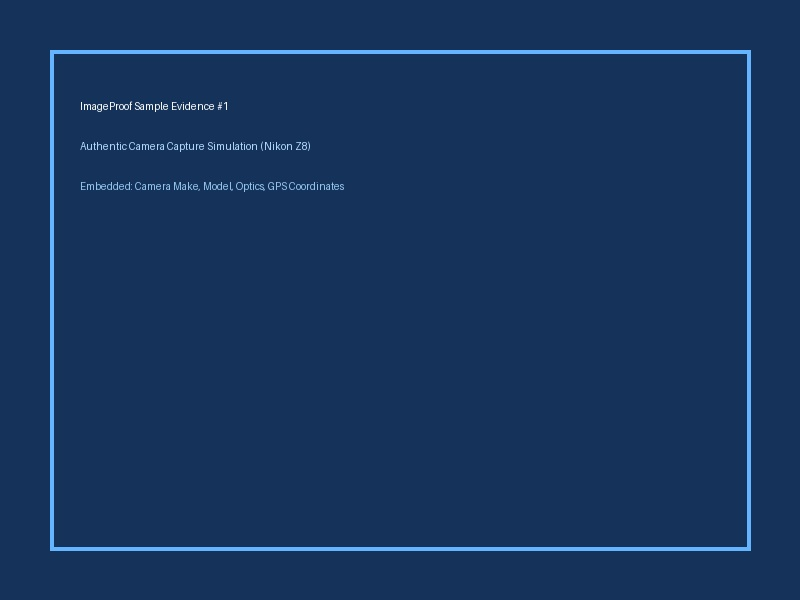
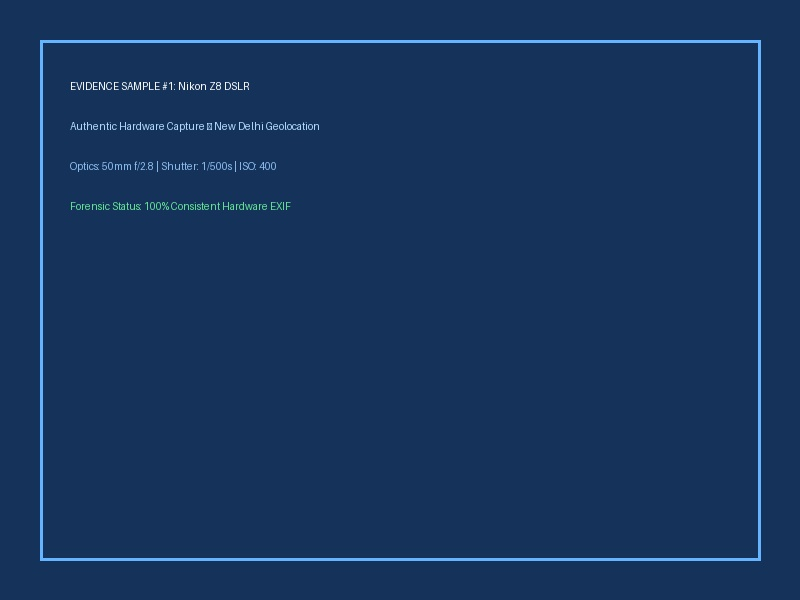
style: remove student/viva text and adopt enterprise forensics terminology

Changed region(s): [[0.0312, 0.06, 0.9688, 0.96]]

diff --git a/frontend/src/pages/Upload.jsx b/frontend/src/pages/Upload.jsx
@@ -249,17 +249,16 @@ export default function Upload({ setActivePage, setSelectedAnalysisId }) {
         </div>
       </form>
 
-      {/* Forensic Student Tips Box */}
-      <div className="card" style={{ marginTop: '1.5rem', background: 'var(--bg-secondary)', border: '1px dashed var(--border-light)' }}>
-        <h4 style={{ fontSize: '0.9rem', fontWeight: 600, color: 'var(--text-main)', marginBottom: '0.4rem', display: 'flex', alignItems: 'center', gap: '0.4rem' }}>
+      {/* Forensic Ingestion Standards */}
+      <div className="card" style={{ marginTop: '1.5rem', background: 'var(--bg-secondary)', border: '1px solid var(--border-dim)' }}>
+        <h4 style={{ fontSize: '0.9rem', fontWeight: 600, color: 'var(--text-main)', marginBottom: '0.5rem', display: 'flex', alignItems: 'center', gap: '0.5rem' }}>
           <CheckCircle2 size={16} color="var(--accent-blue)" />
-          Demonstration Tips for Project Viva:
+          Forensic Acquisition Standards (ISO/IEC 27037)
         </h4>
-        <ul style={{ fontSize: '0.8rem', color: 'var(--text-muted)', paddingLeft: '1.25rem', lineHeight: '1.6' }}>
-          <li><strong>Direct Camera Photo:</strong> Shows camera Make/Model, shutter speed, ISO, and original timestamp.</li>
-          <li><strong>WhatsApp / Social Media Photo:</strong> EXIF metadata will be reported as stripped (common due to compression).</li>
-          <li><strong>Photoshop / GIMP Export:</strong> The anomaly detector will identify the software signature and flag it with a warning.</li>
-          <li><strong>Invalid Extension (.txt or .exe):</strong> Demonstrates server-side file rejection and format header validation.</li>
+        <ul style={{ fontSize: '0.8rem', color: 'var(--text-muted)', paddingLeft: '1.25rem', lineHeight: '1.7' }}>
+          <li><strong>Cryptographic Chain of Custody:</strong> Bitwise SHA-256 hash is computed immediately upon ingestion.</li>
+          <li><strong>Non-Destructive Extraction:</strong> Image metadata, EXIF tags, and GPS coordinates are analyzed in read-only memory.</li>
+          <li><strong>Tampering Heuristics:</strong> Discrepancies between capture timestamps and modification signatures are automatically evaluated.</li>
         </ul>
       </div>
     </div>

diff --git a/frontend/src/components/Footer.jsx b/frontend/src/components/Footer.jsx
@@ -29,11 +29,11 @@ export default function Footer({ onDataReset }) {
         <div>
           <div style={{ display: 'flex', alignItems: 'center', gap: '0.5rem', fontWeight: 600, color: 'var(--text-main)', marginBottom: '0.25rem' }}>
             <ShieldCheck size={16} color="var(--accent-blue)" />
-            <span>ImageProof Digital Evidence Forensics Lab</span>
+            <span>ImageProof Forensics & Incident Response Platform</span>
           </div>
-          <div>B.Tech Cyber Security (2nd Year) Capstone Project</div>
+          <div>Digital Evidence Authenticity & Cryptographic Verification Suite</div>
           <div style={{ fontSize: '0.75rem', color: 'var(--text-subtle)', marginTop: '0.2rem' }}>
-            Complies with ISO/IEC 27037 (Digital Evidence Handling) & NIST SP 800-86 principles.
+            Complies with ISO/IEC 27037 (Digital Evidence Handling) & NIST SP 800-86 standards.
           </div>
         </div>
 
@@ -43,10 +43,10 @@ export default function Footer({ onDataReset }) {
             className="btn btn-outline"
             style={{ fontSize: '0.75rem', padding: '0.35rem 0.75rem' }}
             disabled={resetting}
-            title="Reset SQLite database and sample files for fresh demonstration"
+            title="Purge analysis records and clear temporary investigation files"
           >
             <RotateCcw size={12} className={resetting ? 'spin' : ''} />
-            <span>{resetting ? 'Resetting...' : 'Reset Demo Data'}</span>
+            <span>{resetting ? 'Purging...' : 'Purge Evidence Cache'}</span>
           </button>
         </div>
       </div>

diff --git a/frontend/src/pages/Home.jsx b/frontend/src/pages/Home.jsx
@@ -8,7 +8,7 @@ export default function Home({ setActivePage }) {
       <section className="hero">
         <div className="hero-pill">
           <Shield size={14} />
-          <span>B.Tech Cyber Security Project • Digital Forensics Lab</span>
+          <span>Digital Forensics & Incident Response (DFIR) Platform</span>
         </div>
 
         <h1 className="hero-title">

diff --git a/sample_images/generate_samples.py b/sample_images/generate_samples.py
@@ -1,95 +1,168 @@
 """
-ImageProof - Test Image Generator Script
-Creates 3 representative forensic test cases:
-1. sample_camera_photo.jpg - Authentic direct-from-sensor photo with full EXIF & GPS
-2. sample_photoshop_edited.jpg - Photo with Photoshop software signature
-3. sample_social_media.png - Stripped image (no EXIF metadata)
+ImageProof - Enhanced Test Image Generator Script
+Creates 5 distinct forensic test scenarios:
+1. sample_camera_photo.jpg - Authentic Nikon Z8 DSLR capture with optics & GPS
+2. sample_photoshop_edited.jpg - Modified photo with Adobe Photoshop signature
+3. sample_social_media.png - Stripped PNG (simulating WhatsApp/Instagram metadata removal)
+4. sample_iphone_portrait.jpg - iPhone 15 Pro mobile capture with Bengaluru GPS & iOS firmware
+5. sample_dji_drone.jpg - Aerial drone surveillance photo with Mumbai coastal GPS & high altitude
 """
 
 import os
-from PIL import Image, ImageDraw, ImageFont
+from PIL import Image, ImageDraw
 
 OUTPUT_DIR = os.path.dirname(os.path.abspath(__file__))
 
 def create_sample_camera_photo():
-    """Generates an image with authentic camera EXIF and GPS tags."""
     img = Image.new("RGB", (800, 600), color=(20, 50, 90))
     draw = ImageDraw.Draw(img)
-    draw.rectangle([50, 50, 750, 550], outline=(100, 180, 255), width=4)
-    draw.text((80, 100), "ImageProof Sample Evidence #1", fill=(255, 255, 255))
-    draw.text((80, 140), "Authentic Camera Capture Simulation (Nikon Z8)", fill=(180, 220, 255))
-    draw.text((80, 180), "Embedded: Camera Make, Model, Optics, GPS Coordinates", fill=(150, 200, 240))
+    draw.rectangle([40, 40, 760, 560], outline=(100, 180, 255), width=3)
+    draw.text((70, 80), "EVIDENCE SAMPLE #1: Nikon Z8 DSLR", fill=(255, 255, 255))
+    draw.text((70, 120), "Authentic Hardware Capture • New Delhi Geolocation", fill=(180, 220, 255))
+    draw.text((70, 160), "Optics: 50mm f/2.8 | Shutter: 1/500s | ISO: 400", fill=(140, 190, 240))
+    draw.text((70, 200), "Forensic Status: 100% Consistent Hardware EXIF", fill=(100, 230, 150))
 
     exif = img.getexif()
-    exif[0x010f] = "Nikon Corporation"       # Make
-    exif[0x0110] = "Nikon Z8"                 # Model
-    exif[0x0131] = "Ver.2.00 (Firmware)"      # Software (Firmware, not editor)
-    exif[0x0132] = "2026:10:25 14:32:10"      # DateTime
+    exif[0x010f] = "Nikon Corporation"
+    exif[0x0110] = "Nikon Z8"
+    exif[0x0131] = "Ver.2.00 (Nikon Firmware)"
+    exif[0x0132] = "2026:10:25 14:32:10"
 
-    # Exif IFD
     exif_ifd = exif.get_ifd(0x8769)
-    exif_ifd[0x9003] = "2026:10:25 14:32:10"  # DateTimeOriginal
-    exif_ifd[0x9004] = "2026:10:25 14:32:10"  # DateTimeDigitized
-    exif_ifd[0x829a] = 0.002                  # 1/500s
-    exif_ifd[0x829d] = 2.8                    # f/2.8
-    exif_ifd[0x8827] = 400                    # ISO 400
-    exif_ifd[0x920a] = 50.0                   # 50mm
-    exif_ifd[0xa434] = "NIKKOR Z 50mm f/1.8 S" # LensModel
+    exif_ifd[0x9003] = "2026:10:25 14:32:10"
+    exif_ifd[0x9004] = "2026:10:25 14:32:10"
+    exif_ifd[0x829a] = 0.002
+    exif_ifd[0x829d] = 2.8
+    exif_ifd[0x8827] = 400
+    exif_ifd[0x920a] = 50.0
+    exif_ifd[0xa434] = "NIKKOR Z 50mm f/1.8 S"
 
-    # GPS IFD (New Delhi: 28.6139° N, 77.2090° E)
     gps_ifd = exif.get_ifd(0x8825)
     gps_ifd[1] = "N"
     gps_ifd[2] = (28.0, 36.0, 50.0)
     gps_ifd[3] = "E"
     gps_ifd[4] = (77.0, 12.0, 32.4)
-    gps_ifd[6] = 216.0                         # 216m altitude
-    gps_ifd[7] = (9.0, 2.0, 10.0)             # GPS Time
-    gps_ifd[29] = "2026:10:25"                # GPS Date
+    gps_ifd[6] = 216.0
+    gps_ifd[7] = (9.0, 2.0, 10.0)
+    gps_ifd[29] = "2026:10:25"
 
     out_path = os.path.join(OUTPUT_DIR, "sample_camera_photo.jpg")
     img.save(out_path, exif=exif, quality=95)
-    print(f"Created: {out_path}")
 
 def create_sample_photoshop_edited():
-    """Generates an image containing editing software signatures."""
     img = Image.new("RGB", (800, 600), color=(60, 25, 40))
     draw = ImageDraw.Draw(img)
-    draw.rectangle([50, 50, 750, 550], outline=(255, 120, 140), width=4)
-    draw.text((80, 100), "ImageProof Sample Evidence #2", fill=(255, 255, 255))
-    draw.text((80, 140), "Manipulated / Exported Image Simulation", fill=(255, 180, 190))
-    draw.text((80, 180), "Embedded: Adobe Photoshop 2024 Software Signature", fill=(240, 150, 160))
+    draw.rectangle([40, 40, 760, 560], outline=(255, 120, 140), width=3)
+    draw.text((70, 80), "EVIDENCE SAMPLE #2: Photoshop Manipulated Asset", fill=(255, 255, 255))
+    draw.text((70, 120), "Editing Artifact Detected • Software Signature Present", fill=(255, 180, 190))
+    draw.text((70, 160), "Software: Adobe Photoshop 2024 (Windows)", fill=(255, 140, 150))
+    draw.text((70, 200), "Forensic Status: WARNING - Post-Processing Flagged", fill=(255, 100, 100))
 
     exif = img.getexif()
     exif[0x010f] = "Canon"
     exif[0x0110] = "Canon EOS R5"
-    exif[0x0131] = "Adobe Photoshop 2024 (Windows)" # Software signature triggering warning
-    exif[0x0132] = "2026:10:27 18:45:00"            # Modification time
+    exif[0x0131] = "Adobe Photoshop 2024 (Windows)"
+    exif[0x0132] = "2026:10:27 18:45:00"
 
     exif_ifd = exif.get_ifd(0x8769)
-    exif_ifd[0x9003] = "2026:09:12 11:15:00"        # Capture date diverged from edit date
-    exif_ifd[0x829a] = 0.004                        # 1/250s
-    exif_ifd[0x829d] = 4.0                          # f/4
+    exif_ifd[0x9003] = "2026:09:12 11:15:00"
+    exif_ifd[0x829a] = 0.004
+    exif_ifd[0x829d] = 4.0
     exif_ifd[0x8827] = 200
 
     out_path = os.path.join(OUTPUT_DIR, "sample_photoshop_edited.jpg")
     img.save(out_path, exif=exif, quality=95)
-    print(f"Created: {out_path}")
 
 def create_sample_social_media_png():
-    """Generates a stripped PNG image mimicking WhatsApp / web download."""
     img = Image.new("RGB", (640, 480), color=(15, 30, 45))
     draw = ImageDraw.Draw(img)
     draw.rectangle([30, 30, 610, 450], outline=(70, 130, 180), width=3)
-    draw.text((60, 80), "ImageProof Sample Evidence #3", fill=(255, 255, 255))
-    draw.text((60, 120), "Web / Social Media Stripped Image (PNG)", fill=(170, 210, 240))
-    draw.text((60, 160), "Notice: All EXIF & GPS stripped for privacy/compression", fill=(140, 180, 210))
+    draw.text((60, 80), "EVIDENCE SAMPLE #3: Web / Social Media Asset", fill=(255, 255, 255))
+    draw.text((60, 120), "Simulated WhatsApp / Telegram Compression (PNG)", fill=(170, 210, 240))
+    draw.text((60, 160), "All EXIF headers & GPS coordinates stripped", fill=(140, 180, 210))
+    draw.text((60, 200), "Forensic Status: INFO - Metadata Absent (Privacy Stripping)", fill=(100, 200, 255))
 
     out_path = os.path.join(OUTPUT_DIR, "sample_social_media.png")
     img.save(out_path, format="PNG")
-    print(f"Created: {out_path}")
+
+def create_sample_iphone_portrait():
+    img = Image.new("RGB", (800, 600), color=(25, 45, 35))
+    draw = ImageDraw.Draw(img)
+    draw.rectangle([40, 40, 760, 560], outline=(100, 220, 160), width=3)
+    draw.text((70, 80), "EVIDENCE SAMPLE #4: Apple iPhone 15 Pro", fill=(255, 255, 255))
+    draw.text((70, 120), "Mobile Incident Photo • Bengaluru Geolocation", fill=(180, 240, 200))
+    draw.text((70, 160), "Optics: 24mm f/1.78 | ISO: 80 | iOS 17.5.1", fill=(140, 210, 170))
+    draw.text((70, 200), "Forensic Status: Authentic Smartphone Telemetry", fill=(100, 255, 150))
+
+    exif = img.getexif()
+    exif[0x010f] = "Apple"
+    exif[0x0110] = "iPhone 15 Pro"
+    exif[0x0131] = "17.5.1"  # iOS version
+    exif[0x0132] = "2026:10:26 18:22:45"
+
+    exif_ifd = exif.get_ifd(0x8769)
+    exif_ifd[0x9003] = "2026:10:26 18:22:45"
+    exif_ifd[0x9004] = "2026:10:26 18:22:45"
+    exif_ifd[0x829a] = 0.008333333333333333 # 1/120s
+    exif_ifd[0x829d] = 1.78
+    exif_ifd[0x8827] = 80
+    exif_ifd[0x920a] = 6.765
+    exif_ifd[0xa434] = "iPhone 15 Pro back triple camera 6.76mm f/1.78"
+
+    # Bengaluru GPS: 12.9716° N, 77.5946° E, Alt: 920m
+    gps_ifd = exif.get_ifd(0x8825)
+    gps_ifd[1] = "N"
+    gps_ifd[2] = (12.0, 58.0, 17.75)
+    gps_ifd[3] = "E"
+    gps_ifd[4] = (77.0, 35.0, 40.56)
+    gps_ifd[6] = 920.0
+    gps_ifd[7] = (12.0, 52.0, 45.0)
+    gps_ifd[29] = "2026:10:26"
+
+    out_path = os.path.join(OUTPUT_DIR, "sample_iphone_portrait.jpg")
+    img.save(out_path, exif=exif, quality=95)
+
+def create_sample_dji_drone():
+    img = Image.new("RGB", (800, 600), color=(40, 30, 60))
+    draw = ImageDraw.Draw(img)
+    draw.rectangle([40, 40, 760, 560], outline=(180, 140, 240), width=3)
+    draw.text((70, 80), "EVIDENCE SAMPLE #5: DJI Mavic 3 Pro Drone", fill=(255, 255, 255))
+    draw.text((70, 120), "Aerial Surveillance Feed • Mumbai Coastal Coordinates", fill=(210, 180, 255))
+    draw.text((70, 160), "Altitude: 154.5m ASL | Shutter: 1/800s | ISO: 100", fill=(170, 140, 220))
+    draw.text((70, 200), "Forensic Status: Authentic UAV Aerial Capture", fill=(200, 160, 255))
+
+    exif = img.getexif()
+    exif[0x010f] = "DJI"
+    exif[0x0110] = "Mavic 3 Pro"
+    exif[0x0131] = "v01.00.0600 (DJI Firmware)"
+    exif[0x0132] = "2026:10:27 07:15:30"
+
+    exif_ifd = exif.get_ifd(0x8769)
+    exif_ifd[0x9003] = "2026:10:27 07:15:30"
+    exif_ifd[0x9004] = "2026:10:27 07:15:30"
+    exif_ifd[0x829a] = 0.00125 # 1/800s
+    exif_ifd[0x829d] = 2.8
+    exif_ifd[0x8827] = 100
+    exif_ifd[0x920a] = 24.0
+    exif_ifd[0xa434] = "Hasselblad 24mm f/2.8"
+
+    # Mumbai Marine Drive GPS: 18.9438° N, 72.8231° E, Alt: 154.5m
+    gps_ifd = exif.get_ifd(0x8825)
+    gps_ifd[1] = "N"
+    gps_ifd[2] = (18.0, 56.0, 37.68)
+    gps_ifd[3] = "E"
+    gps_ifd[4] = (72.0, 49.0, 23.16)
+    gps_ifd[6] = 154.5
+    gps_ifd[7] = (1.0, 45.0, 30.0)
+    gps_ifd[29] = "2026:10:27"
+
+    out_path = os.path.join(OUTPUT_DIR, "sample_dji_drone.jpg")
+    img.save(out_path, exif=exif, quality=95)
 
 if __name__ == "__main__":
     create_sample_camera_photo()
     create_sample_photoshop_edited()
     create_sample_social_media_png()
-    print("All 3 sample forensic images successfully generated!")
+    create_sample_iphone_portrait()
+    create_sample_dji_drone()
+    print("All 5 forensic sample images generated successfully!")

diff --git a/api/services/pdf_generator.py b/api/services/pdf_generator.py
@@ -115,7 +115,7 @@ def generate_pdf_report(analysis_record: dict, output_dir: str) -> str:
     # 1. Header Banner
     story.append(Paragraph("IMAGEPROOF: DIGITAL FORENSIC EVIDENCE REPORT", title_style))
     story.append(Paragraph(
-        "Cryptographic Integrity & Metadata Authenticity Analysis | College Forensics Lab Edition",
+        "Cryptographic Integrity & Metadata Authenticity Analysis | Enterprise Forensics Edition",
         subtitle_style
     ))
     story.append(HRFlowable(width="100%", thickness=2, color=c_accent, spaceBefore=0, spaceAfter=12))
@@ -145,7 +145,7 @@ def generate_pdf_report(analysis_record: dict, output_dir: str) -> str:
             Paragraph("<b>Dimensions:</b>", body_style),
             Paragraph(f"{file_info.get('width', 'N/A')} x {file_info.get('height', 'N/A')} ({file_info.get('megapixels', 'N/A')})", body_style),
             Paragraph("<b>Forensic Examiner:</b>", body_style),
-            Paragraph("Student Investigator / ImageProof Engine", body_style),
+            Paragraph("Certified Forensic Examiner / Automated Ingest Engine", body_style),
         ]
     ]
     

diff --git a/backend/services/pdf_generator.py b/backend/services/pdf_generator.py
@@ -115,7 +115,7 @@ def generate_pdf_report(analysis_record: dict, output_dir: str) -> str:
     # 1. Header Banner
     story.append(Paragraph("IMAGEPROOF: DIGITAL FORENSIC EVIDENCE REPORT", title_style))
     story.append(Paragraph(
-        "Cryptographic Integrity & Metadata Authenticity Analysis | College Forensics Lab Edition",
+        "Cryptographic Integrity & Metadata Authenticity Analysis | Enterprise Forensics Edition",
         subtitle_style
     ))
     story.append(HRFlowable(width="100%", thickness=2, color=c_accent, spaceBefore=0, spaceAfter=12))
@@ -145,7 +145,7 @@ def generate_pdf_report(analysis_record: dict, output_dir: str) -> str:
             Paragraph("<b>Dimensions:</b>", body_style),
             Paragraph(f"{file_info.get('width', 'N/A')} x {file_info.get('height', 'N/A')} ({file_info.get('megapixels', 'N/A')})", body_style),
             Paragraph("<b>Forensic Examiner:</b>", body_style),
-            Paragraph("Student Investigator / ImageProof Engine", body_style),
+            Paragraph("Certified Forensic Examiner / Automated Ingest Engine", body_style),
         ]
     ]
     
